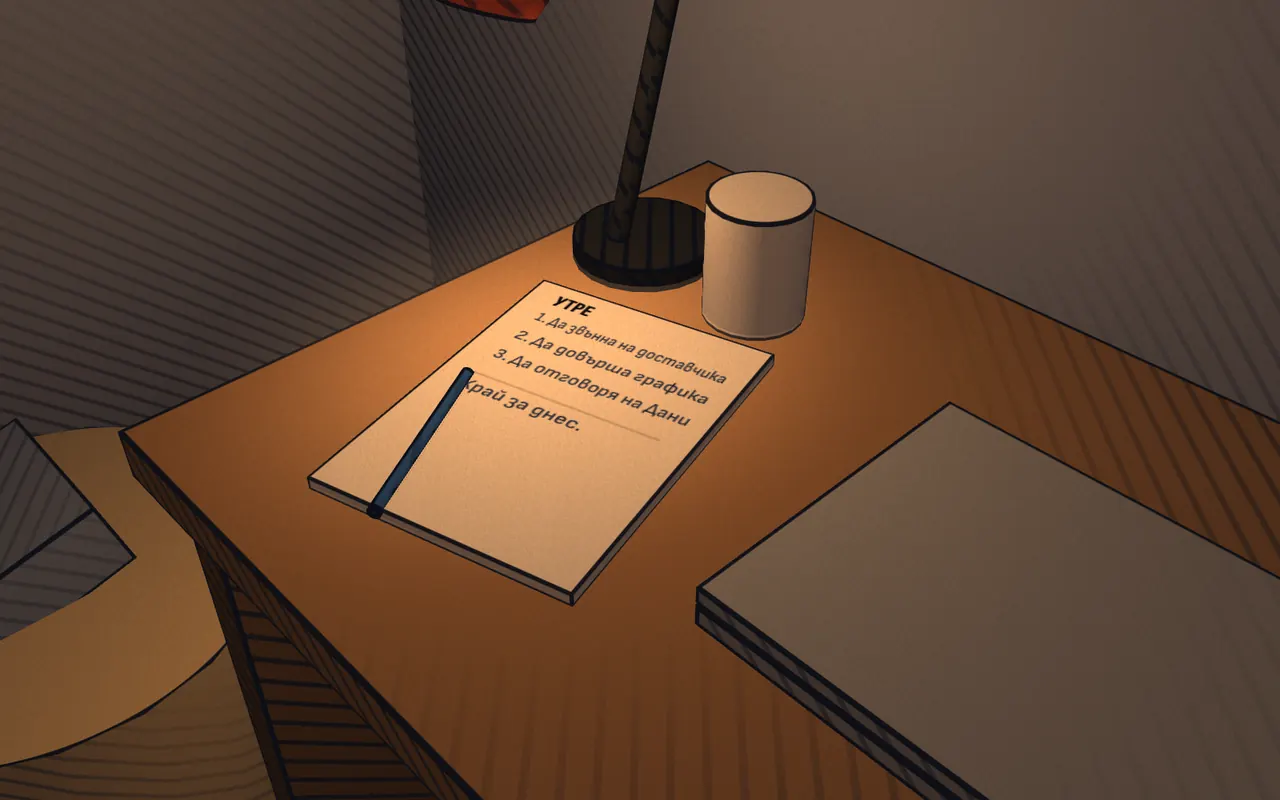
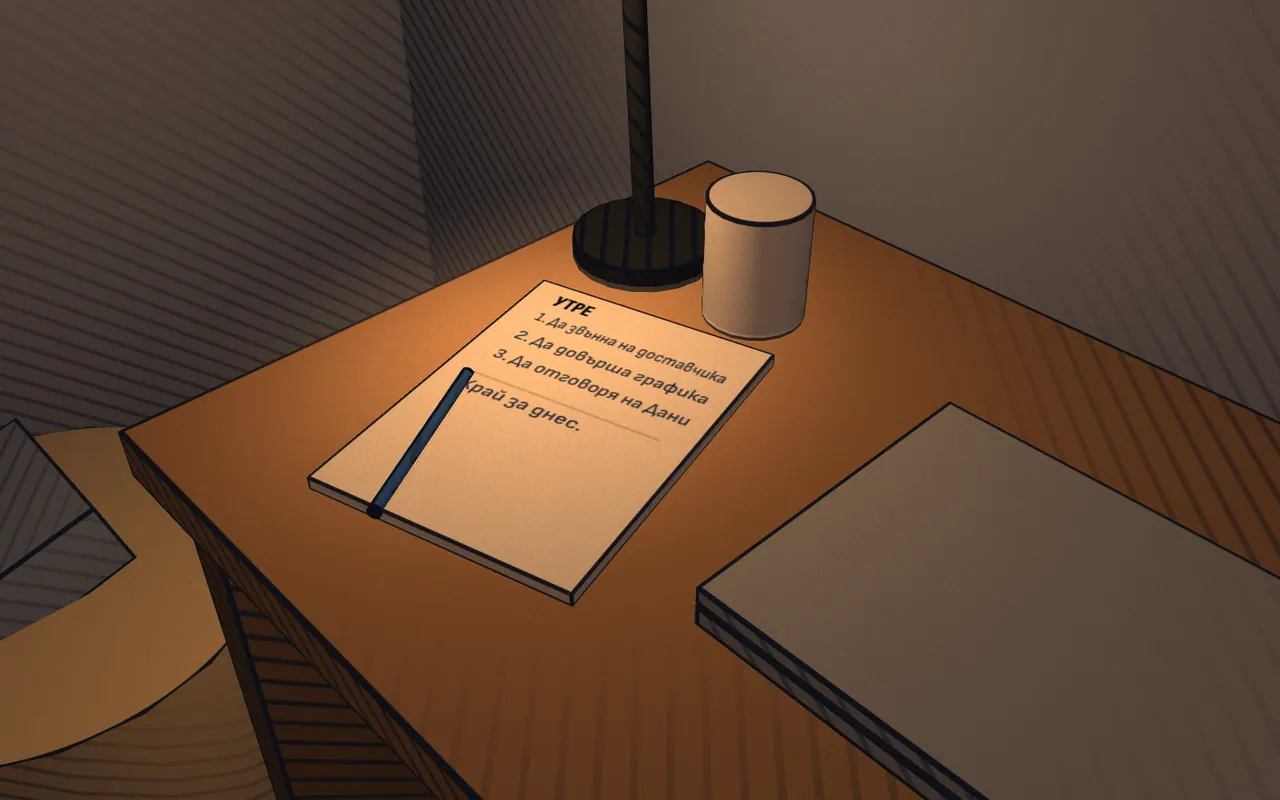
v0.31.1 One sound switch; the desk lamp's shade is back on its arm; Watch with sound no longer stops itself
- The film player's own "Music and sound" button is gone: the header's speaker is the one sound
  switch. Pressing Watch with sound switches it on (quietly); switching it off mid-film lets the
  film carry on with the words only; the player's voice button brings sound back.
- The desk lamp in the bedroom (film, ritual, story panels) was a shade turned upside down and
  floating beside its stem: it looked like a flying flower pot. Now a stem, an arm and a shade
  hanging from it, opening down to the desk, each part starting where the last ends. The two
  drawn posters that showed it (r1, desk; EN/BG) are redrawn.
- Starting Watch with sound from the film's corner on a first visit paused it after a few
  seconds: the narration note under In short went away, the page shifted under the film, and the
  player took that for a scroll by hand. Now only the scrollbar (and wheel, touch, keys) pause it.

Claude-Session: https://claude.ai/code/session_01JXZAomtZfiVWND9yTJ6vSQ

Changed region(s): [[0.4688, 0.0, 0.5312, 0.1562], [0.4688, 0.1875, 0.5312, 0.25], [0.3438, 0.0, 0.4375, 0.0312]]

diff --git a/src/assets/js/film-watch.js b/src/assets/js/film-watch.js
@@ -39,19 +39,20 @@
   var nowEl = bar.querySelector('[data-watch-now]');
   var totEl = bar.querySelector('[data-watch-total]');
   var voiceBtn = bar.querySelector('[data-watch-voice]');
-  var soundBtn = bar.querySelector('[data-watch-sound]');
   var closeBtn = bar.querySelector('[data-watch-close]');
   var skipEl = film.querySelector('[data-film-skip]');
   var filmBtn = film.querySelector('.film__watch');
 
-  // Voice and sound, as this viewer left them (this device only)
+  // The voice, as this viewer left it (this device only). Sound itself is the site's one setting,
+  // the speaker in the header (ES.sound): pressing Watch with sound switches it on.
   var PREF = 'es:watch';
-  var pref = { voice: true, sound: true };
+  var pref = { voice: true };
   try {
     var saved = JSON.parse(localStorage.getItem(PREF) || 'null');
-    if (saved) { pref.voice = saved.voice !== false; pref.sound = saved.sound !== false; }
+    if (saved) pref.voice = saved.voice !== false;
   } catch (e) {}
   function savePref() { try { localStorage.setItem(PREF, JSON.stringify(pref)); } catch (e) {} }
+  function soundOn() { return ES.sound ? ES.sound.on() : true; }
 
   /* ------------------------------------------------------------------ the lines
      Each [data-say] is a line: when it is fully on screen (s), the last moment it still is (by),
@@ -183,7 +184,7 @@
   var DEVICE = WC.deviceVoice === true;
   function deviceOk() { return !!(DEVICE && synth && sv && synthFails < 2); }
   function mode(c) {
-    if (!pref.voice) return 'none';
+    if (!pref.voice || !soundOn()) return 'none';
     if (c && hasClip(c) && ac) return 'clip';
     return deviceOk() ? 'device' : 'none';
   }
@@ -470,7 +471,7 @@
     L.breath.gain.setTargetAtTime(lv.breath * mv, t, 0.09);
     L.breath.f.setTargetAtTime(lv.breathF, t, 0.12);
     sfxBus.gain.setTargetAtTime(speaking ? SFX_LV * 0.8 : SFX_LV, t, 0.25);
-    var on = (st.on && (st.playing || st.waiting) && pref.sound) || sc.audible;
+    var on = (st.on && (st.playing || st.waiting) && soundOn()) || sc.audible;
     master.gain.setTargetAtTime(on ? 1 : 0, t, on ? 0.35 : 0.12);
     // the music steps back while a line is said
     bedBus.gain.setTargetAtTime(speaking ? 0.55 : 1, t, 0.3);
@@ -803,7 +804,7 @@
   }
   function events(a, b, max) {
     if (!ac || b <= a || b - a > (max || 0.25)) return;
-    if (st.on && !pref.sound) return;
+    if (!soundOn()) return;
     var t = ac.currentTime + 0.04;
     EV.forEach(function (e) { if (e[0] > a && e[0] <= b) SFX[e[1]](t, e[2]); });
     GR.forEach(function (g) {
@@ -899,7 +900,13 @@
     } else if (st.playing) {
       // somebody scrolled: stop where they are
       var y = scrollNow();
-      if (st.lastY >= 0 && Math.abs(y - st.lastY) > 3) { pause('scroll'); return; }
+      if (st.lastY >= 0 && Math.abs(y - st.lastY) > 3) {
+        // a scroll by hand (wheel, touch and keys pause on their own; this is the scrollbar):
+        // stop there. Otherwise the page moved under the film (something above it changed
+        // height, like the narration note going away as it starts): carry on from here.
+        if (now - barAt < 1500) { pause('scroll'); return; }
+        st.lastY = y;
+      }
       var T = st.T, c = st.line ? st.line.c : null;
       if (c && st.line.done && now >= st.rest) { st.line = null; c = null; }
       var nx = cues[st.next];
@@ -997,6 +1004,8 @@
   function start(from, trigger) {
     if (!F.live()) return false;
     sc.audible = false;
+    // "Watch with sound": the site's sound comes on with it (no chime, the film has its own)
+    if (ES.sound && !ES.sound.on()) ES.sound.set(true, { quiet: true });
     // inside the tap: wake the sound and the voice now (browsers only allow it here)
     audio();
     session(true);
@@ -1033,10 +1042,9 @@
     root.classList.add('is-watching');
     bar.hidden = false;
     voiceUi();
-    soundUi();
     ui();
     try { playBtn.focus({ preventScroll: true }); } catch (e) { playBtn.focus(); }
-    track('film_watch', { action: 'start', from: from, via: trigger && trigger.hasAttribute('data-watch-nudge') ? 'nudge' : 'button', voice: pref.voice ? voiceKind() : 'off', sound: pref.sound });
+    track('film_watch', { action: 'start', from: from, via: trigger && trigger.hasAttribute('data-watch-nudge') ? 'nudge' : 'button', voice: pref.voice ? voiceKind() : 'off', sound: soundOn() });
     nudgeDone();
     glide(Math.round(F.y(st.T)), function () {
       if (!st.on) return;
@@ -1124,6 +1132,19 @@
     scrollKick();
   }
   window.addEventListener('es:sound', function (e) {
+    if (st.on) {
+      if (e.detail && e.detail.on) audio();
+      soundTo(st.T, false, true);
+      // (the line on screen is said again, or now only shown, straight away)
+      if (st.playing && st.line) {
+        var c = st.line.c;
+        stopVoice();
+        st.line = null;
+        st.next = c.k;
+      }
+      voiceUi();
+      return;
+    }
     if (e.detail && e.detail.on) scrollWake();
     else scrollQuiet();
   });
@@ -1272,18 +1293,24 @@
     voiceBtn.hidden = kind === 'none' && !DEVICE;
     var na = kind === 'none' && voicesTried;
     voiceBtn.classList.toggle('is-na', na);
-    voiceBtn.setAttribute('aria-pressed', String(pref.voice && !na));
+    voiceBtn.setAttribute('aria-pressed', String(pref.voice && !na && soundOn()));
     var label = voiceBtn.getAttribute('aria-label') || '';
     var credit = voiceBtn.getAttribute('data-credit');
     var note = na ? voiceBtn.getAttribute('data-none') : kind === 'device' ? voiceBtn.getAttribute('data-device') : kind === 'clip' && credit ? label + '. ' + credit : label;
     voiceBtn.title = note || label;
   }
-  function soundUi() { soundBtn.setAttribute('aria-pressed', String(pref.sound)); }
 
   playBtn.addEventListener('click', function () { toggle('button'); });
   closeBtn.addEventListener('click', function () { close('button'); });
   voiceBtn.addEventListener('click', function () {
     if (voiceBtn.classList.contains('is-na')) return;
+    // with the sound off, the voice button brings the sound (and the voice) back
+    if (!soundOn()) {
+      pref.voice = true;
+      savePref();
+      if (ES.sound) ES.sound.set(true, { quiet: true });
+      return;
+    }
     pref.voice = !pref.voice;
     savePref();
     voiceUi();
@@ -1295,13 +1322,6 @@
       st.next = c.k;
     }
     track('film_watch', { action: pref.voice ? 'voice_on' : 'voice_off' });
-  });
-  soundBtn.addEventListener('click', function () {
-    pref.sound = !pref.sound;
-    savePref();
-    soundUi();
-    soundTo(st.T, false, true);
-    track('film_watch', { action: pref.sound ? 'sound_on' : 'sound_off' });
   });
   // the position: drag to anywhere in the film
   var resumeAfter = false;
@@ -1347,6 +1367,9 @@
   // scrolling by hand stops it; the keys work like a video's
   var scrollKeys = { ArrowUp: 1, ArrowDown: 1, PageUp: 1, PageDown: 1, Home: 1, End: 1 };
   window.addEventListener('wheel', function () { if (st.playing) pause('scroll'); }, { passive: true });
+  // (a press on the page itself, not on anything in it, is the scrollbar)
+  var barAt = 0;
+  window.addEventListener('pointerdown', function (e) { if (e.target === root || e.target === document.body) barAt = performance.now(); }, true);
   window.addEventListener('touchmove', function (e) {
     if (st.playing && !(e.target.closest && e.target.closest('[data-watch]'))) pause('scroll');
   }, { passive: true });

diff --git a/src/assets/js/game-scenes.js b/src/assets/js/game-scenes.js
@@ -30,6 +30,13 @@
     VIS.forEach(function (k) { if (s[k] !== undefined) o[k] = s[k]; });
     return o;
   }
+  // a rotation that turns a cylinder's axis (y) to point along d
+  function upTo(d) {
+    var l = Math.hypot(d[0], d[1], d[2]) || 1, x = d[0] / l, y = d[1] / l, z = d[2] / l;
+    var s = Math.hypot(z, x);
+    if (s < 1e-5) return y > 0 ? M.rotY(0) : M.rotX(Math.PI);
+    return M.axis([z / s, 0, -x / s], Math.acos(clamp(y, -1, 1)));
+  }
   function rot(a, s) {
     var R = M.rotY(((a || 0) + (s.ry || 0)) * DEG);
     if (s.rx) R = M.mul3(R, M.rotX(s.rx * DEG));
@@ -1410,10 +1417,23 @@
     B.add({ geo: 'cyl', pos: [-127, 52 + 4.5, 156], s: [6, 8.6, 6], color: '#9fc8e8', alpha: 0.5, blend: 'alpha', border: 0, hatch: 0 });
     B.add({ geo: 'box', pos: [-112, 52.6, 156], R: M.rotY(72 * DEG), s: [8, 1, 16], color: '#1b1d22', border: 0.18, name: 'phonedown' });
     jar(B, -96, 52, 154, api, 142);
-    // a desk lamp, on in the evening
+    // a desk lamp, on in the evening: a stem up from its base, an arm out over the desk, and the
+    // shade hanging from the arm's end, its opening down towards the desk (narrow end up: a cylinder's
+    // taper narrows its top). Each part starts where the last one ends.
     B.cyl({ wall: 'e', u: -132, v: 74, o: 10, r: 6, h: 2, c: '#24262a' });
-    B.cyl({ wall: 'e', u: -132, v: 76, o: 14, r: 0.9, h: 30, c: '#24262a', rx: -16 });
-    var dl = B.cyl({ wall: 'e', u: -132, v: 98, o: 22, r: 7, h: 9, c: '#d9583a', taper: 0.5, rx: 160 });
+    var lf = B.frame('e');
+    var lp = function (o, y) { var q = lf.at(-132, o); return [q[0], y, q[1]]; };
+    var toWall = (function () { var a = lf.at(0, 0), b = lf.at(0, 1); return [a[0] - b[0], 0, a[1] - b[1]]; })();
+    var rod = function (a, b, r) {
+      var d = [b[0] - a[0], b[1] - a[1], b[2] - a[2]];
+      return B.add({ geo: 'cyl', pos: [(a[0] + b[0]) / 2, (a[1] + b[1]) / 2, (a[2] + b[2]) / 2], R: upTo(d), s: [r * 2, Math.hypot(d[0], d[1], d[2]), r * 2], color: '#24262a', border: 0.3 });
+    };
+    var base = lp(16, 76), elbow = lp(18, 110), tip = lp(30, 113);
+    rod(base, elbow, 0.9);
+    rod(elbow, tip, 0.8);
+    // (the shade's axis leans 20 degrees back towards the wall, so its opening faces the desk)
+    var sa = [toWall[0] * Math.sin(20 * DEG), Math.cos(20 * DEG), toWall[2] * Math.sin(20 * DEG)];
+    var dl = B.add({ geo: 'cyl', pos: [tip[0] - sa[0] * 4.5, tip[1] - sa[1] * 4.5, tip[2] - sa[2] * 4.5], R: upTo(sa), s: [14, 9, 14], color: '#d9583a', taper: 0.5, border: 0.3 });
     dl.warmEmit = 0.6;
     var dlp = B.frame('e').at(-128, 30);
     B.light({ p: [dlp[0], 96, dlp[1]], c: '#ffb46a', i: 1.1, r: 230, k: 'warm' });

diff --git a/src/assets/js/site.js b/src/assets/js/site.js
@@ -259,7 +259,8 @@
   ES.sound = {
     on: function () { return store.get(SOUND_KEY) === 'on' && root.getAttribute('data-calm') !== 'on'; },
     muted: function () { return store.get(SOUND_KEY) === 'off' || root.getAttribute('data-calm') === 'on'; },
-    set: function (on) { setSound(on); },
+    // (quiet: no chime or note, for Watch with sound switching it on as it starts)
+    set: function (on, opts) { setSound(on, opts); },
     locked: function () { return soundLocked; },
     sync: function () { syncSound(); },
   };
@@ -272,15 +273,16 @@
       b.classList.toggle('is-waiting', wait);
     });
   }
-  function setSound(on) {
+  function setSound(on, opts) {
+    var quiet = !!(opts && opts.quiet);
     store.set(SOUND_KEY, on ? 'on' : 'off');
     soundLocked = false;
     syncSound();
-    toast(on ? (root.classList.contains('has-film') && S.sound.onFilm ? S.sound.onFilm : S.sound.on) : S.sound.off);
-    track('sound_toggle', { state: on ? 'on' : 'off' });
+    if (!quiet) toast(on ? (root.classList.contains('has-film') && S.sound.onFilm ? S.sound.onFilm : S.sound.on) : S.sound.off);
+    track('sound_toggle', { state: on ? 'on' : 'off', via: quiet ? 'watch' : 'speaker' });
     // (inside the click: the one moment a browser lets a page start its sound)
     window.dispatchEvent(new CustomEvent('es:sound', { detail: { on: on } }));
-    if (on && ES.shift && ES.shift.sfx && ES.shift.sfx.chime) ES.shift.sfx.chime();
+    if (on && !quiet && ES.shift && ES.shift.sfx && ES.shift.sfx.chime) ES.shift.sfx.chime();
   }
   soundBtns.forEach(function (b) {
     b.addEventListener('click', function () { setSound(!ES.sound.on()); });

diff --git a/src/templates/film.js b/src/templates/film.js
@@ -45,7 +45,6 @@ const watchBar = (W) => `<div class="watch" data-watch role="group" aria-label="
         <span class="watch__time" aria-hidden="true"><span data-watch-now>0:00</span><span class="watch__total"> / <span data-watch-total>0:00</span></span></span>
       </div>
       <button class="watch__btn watch__voice" type="button" data-watch-voice aria-pressed="true" aria-label="${esc(W.voice)}" title="${esc(W.voice)}" data-device="${esc(W.deviceVoice)}" data-none="${esc(W.noVoice)}" data-credit="${esc(W.credit || '')}">${icon('voice')}</button>
-      <button class="watch__btn watch__sound" type="button" data-watch-sound aria-pressed="true" aria-label="${esc(W.sound)}" title="${esc(W.sound)}">${icon('sound', 'watch__i-on')}${icon('mute', 'watch__i-off')}</button>
       <button class="watch__btn watch__close" type="button" data-watch-close aria-label="${esc(W.close)}" title="${esc(W.close)}">${icon('close')}</button>
     </div>`;
 

diff --git a/src/assets/css/film.css b/src/assets/css/film.css
@@ -1789,14 +1789,12 @@
   color: rgba(243, 240, 232, 0.55);
 }
 
-/* the voice and the music: on, or struck through */
-.watch__voice,
-.watch__sound {
+/* the voice: on, or struck through (sound itself is the header's speaker) */
+.watch__voice {
   position: relative;
 }
 
-.watch__voice[aria-pressed='false'],
-.watch__sound[aria-pressed='false'] {
+.watch__voice[aria-pressed='false'] {
   color: rgba(243, 240, 232, 0.5);
 }
 
@@ -1816,15 +1814,6 @@
 .watch__voice.is-na {
   opacity: 0.45;
   cursor: not-allowed;
-}
-
-.watch__sound .watch__i-off,
-.watch__sound[aria-pressed='false'] .watch__i-on {
-  display: none;
-}
-
-.watch__sound[aria-pressed='false'] .watch__i-off {
-  display: block;
 }
 
 @media (max-width: 479px) {

diff --git a/src/content/bg/home.js b/src/content/bg/home.js
@@ -275,7 +275,6 @@ export default ({ cfg, state, fmt, url, t, formula }) => {
           position: 'Докъде си във филма',
           of: 'от',
           voice: 'Глас',
-          sound: 'Музика и звуци',
           close: 'Спри гледането',
           deviceVoice: 'Глас: чете устройството ти',
           noVoice: 'На това устройство няма български глас. Думите остават на екрана.',

diff --git a/src/content/en/home.js b/src/content/en/home.js
@@ -297,7 +297,6 @@ export default ({ cfg, state, fmt, t, formula }) => {
           position: 'Where you are in the film',
           of: 'of',
           voice: 'Voice',
-          sound: 'Music and sound',
           close: 'Stop watching',
           deviceVoice: 'Voice: read by your device',
           noVoice: 'No English voice on this device. The words stay on screen.',

diff --git a/docs/ANALYTICS.md b/docs/ANALYTICS.md
@@ -26,7 +26,7 @@ Path B  page view /reset/ ─► cta_click (batch_*) ─► signup_success (list
 | `intro_complete` | The opening handed over to the page | `skipped`, `flipped` | |
 | `intro_handoff` | The opening's switch flew into the game (home with the game on) | | |
 | `story_switch` | The switch is pressed in the home page film (scrolled past the moment, once per visit) | `how` (`film`) | How far people watch |
-| `film_watch` | “Watch with sound”: the home page film playing by itself | `action` (`start` / `pause` / `resume` / `end` / `close` / `voice_on` / `voice_off` / `sound_on` / `sound_off`), `from` (`top` = the button under the summary, `here` = the one in the film), `via` (on `start`: `nudge` = the hand-drawn "Much better with narration" note, `button`), `voice` (`clip` = recorded, `device` = the device's speech voice, `none`, `off`), `how` (`button` / `tap` / `key` / `scroll` / `seek` / `skip` / `left` / `hidden`), `beat` (where in the film), `percent` (on `close`) | Whether people watch it rather than scroll it, and where they stop. `start` ÷ home views next to `scroll_depth` |
+| `film_watch` | “Watch with sound”: the home page film playing by itself | `action` (`start` / `pause` / `resume` / `end` / `close` / `voice_on` / `voice_off`; sound is the header's speaker, see `sound_toggle`), `from` (`top` = the button under the summary, `here` = the one in the film), `via` (on `start`: `nudge` = the hand-drawn "Much better with narration" note, `button`), `voice` (`clip` = recorded, `device` = the device's speech voice, `none`, `off`), `how` (`button` / `tap` / `key` / `scroll` / `seek` / `skip` / `left` / `hidden`), `beat` (where in the film), `percent` (on `close`) | Whether people watch it rather than scroll it, and where they stop. `start` ÷ home views next to `scroll_depth` |
 | `game_start` | First interaction with today's game | `game` (`bed`, `kitchen`, `ward`, `office`, `shop`, `clients`, `depot`), `type` (`room` / `flood` / `torch`) | **Game engagement** |
 | `game_touch` | Something that isn't the switch was used | `game`, `object`, `kind` (`object` / `decoy`) | What people try first |
 | `game_hint` | The game helped (by itself or asked) | `game`, `level` (1–4), `asked` | Whether a game is too hard |
@@ -69,7 +69,7 @@ Path B  page view /reset/ ─► cta_click (batch_*) ─► signup_success (list
 | `story_engage` | Story video, social or timeline media link opened | `id` | **Founder story engagement**, together with page views and scroll depth on `/story/` |
 | `scroll_depth` | 25 / 50 / 75 / 100 % reached, once each per page view | `percent`, `page` | **Scroll depth** |
 | `low_stim_toggle` | Low-stim mode switched | `state` | How many people use it |
-| `sound_toggle` | The speaker in the header switched (sound for the whole site, off by default) | `state` (`on` / `off`) | How many people want the film's sound while they scroll |
+| `sound_toggle` | The speaker in the header switched (sound for the whole site, off by default; it's also the film player's sound) | `state` (`on` / `off`), `via` (`speaker`, or `watch` when Watch with sound switched it on) | How many people want the film's sound while they scroll |
 | `language_switch` | Language link used | `id` | |
 | `share` | Share button used on the ritual end screen | `method` (`native` / `copy`) | |
 | `contact_submit` | Contact form sent | `topic`, `preview` | |
